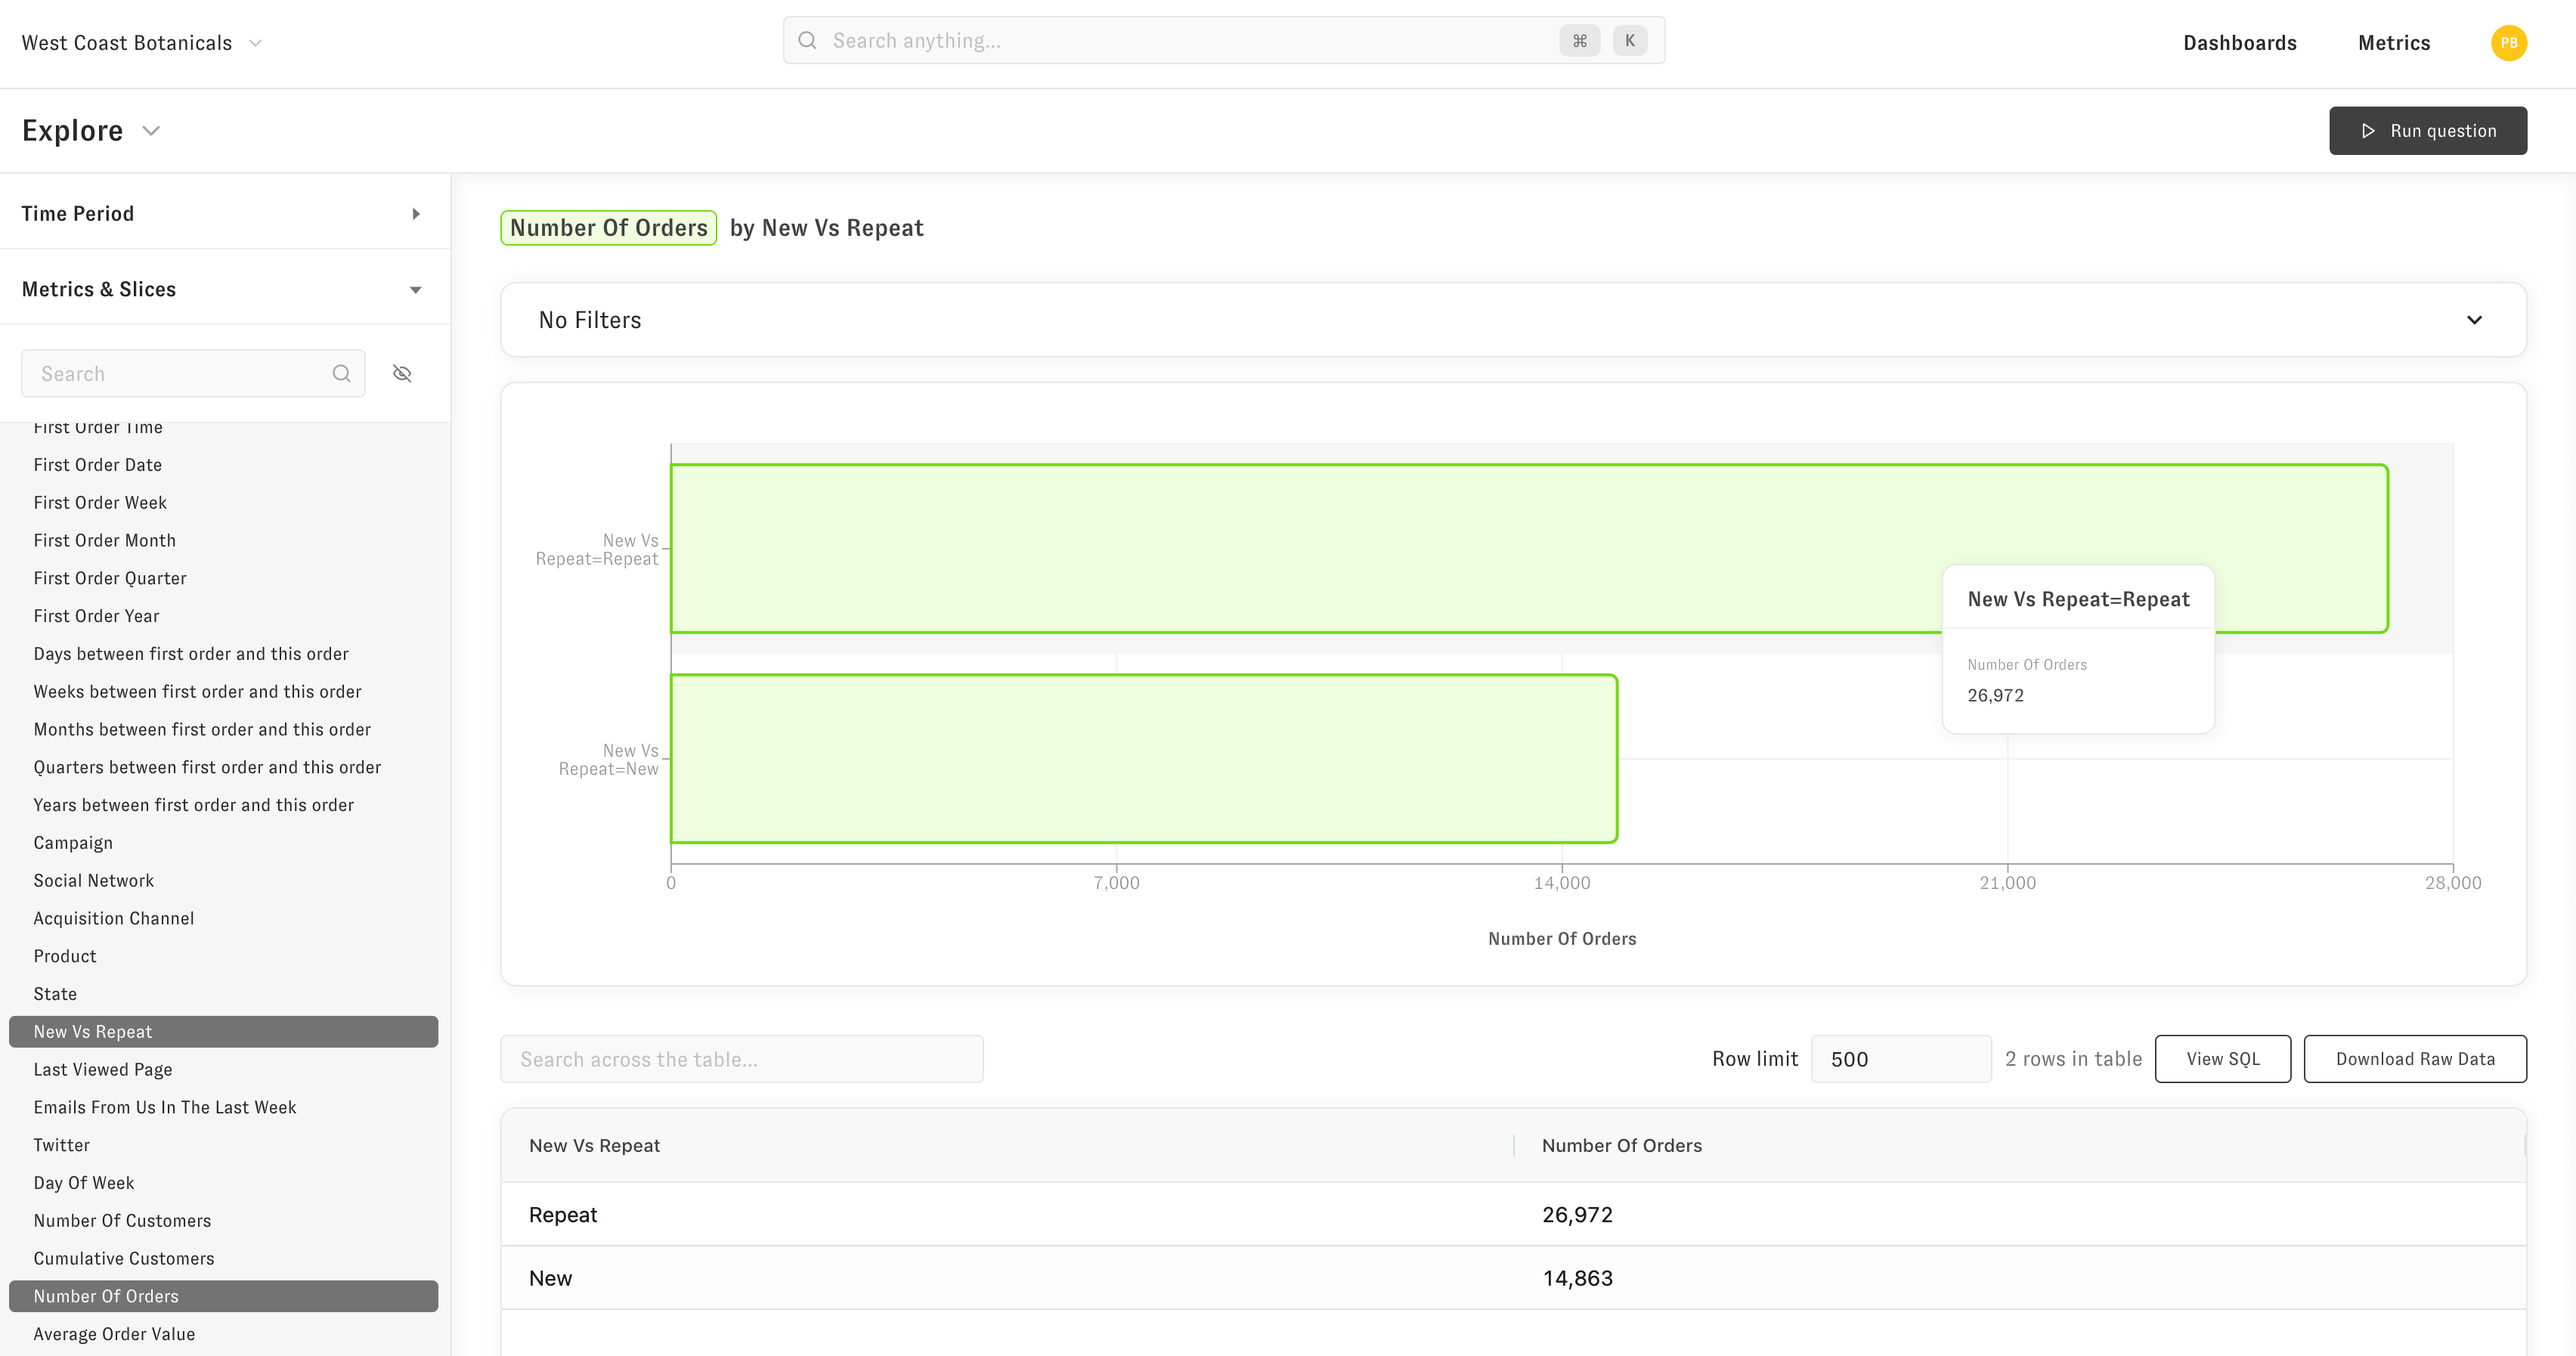
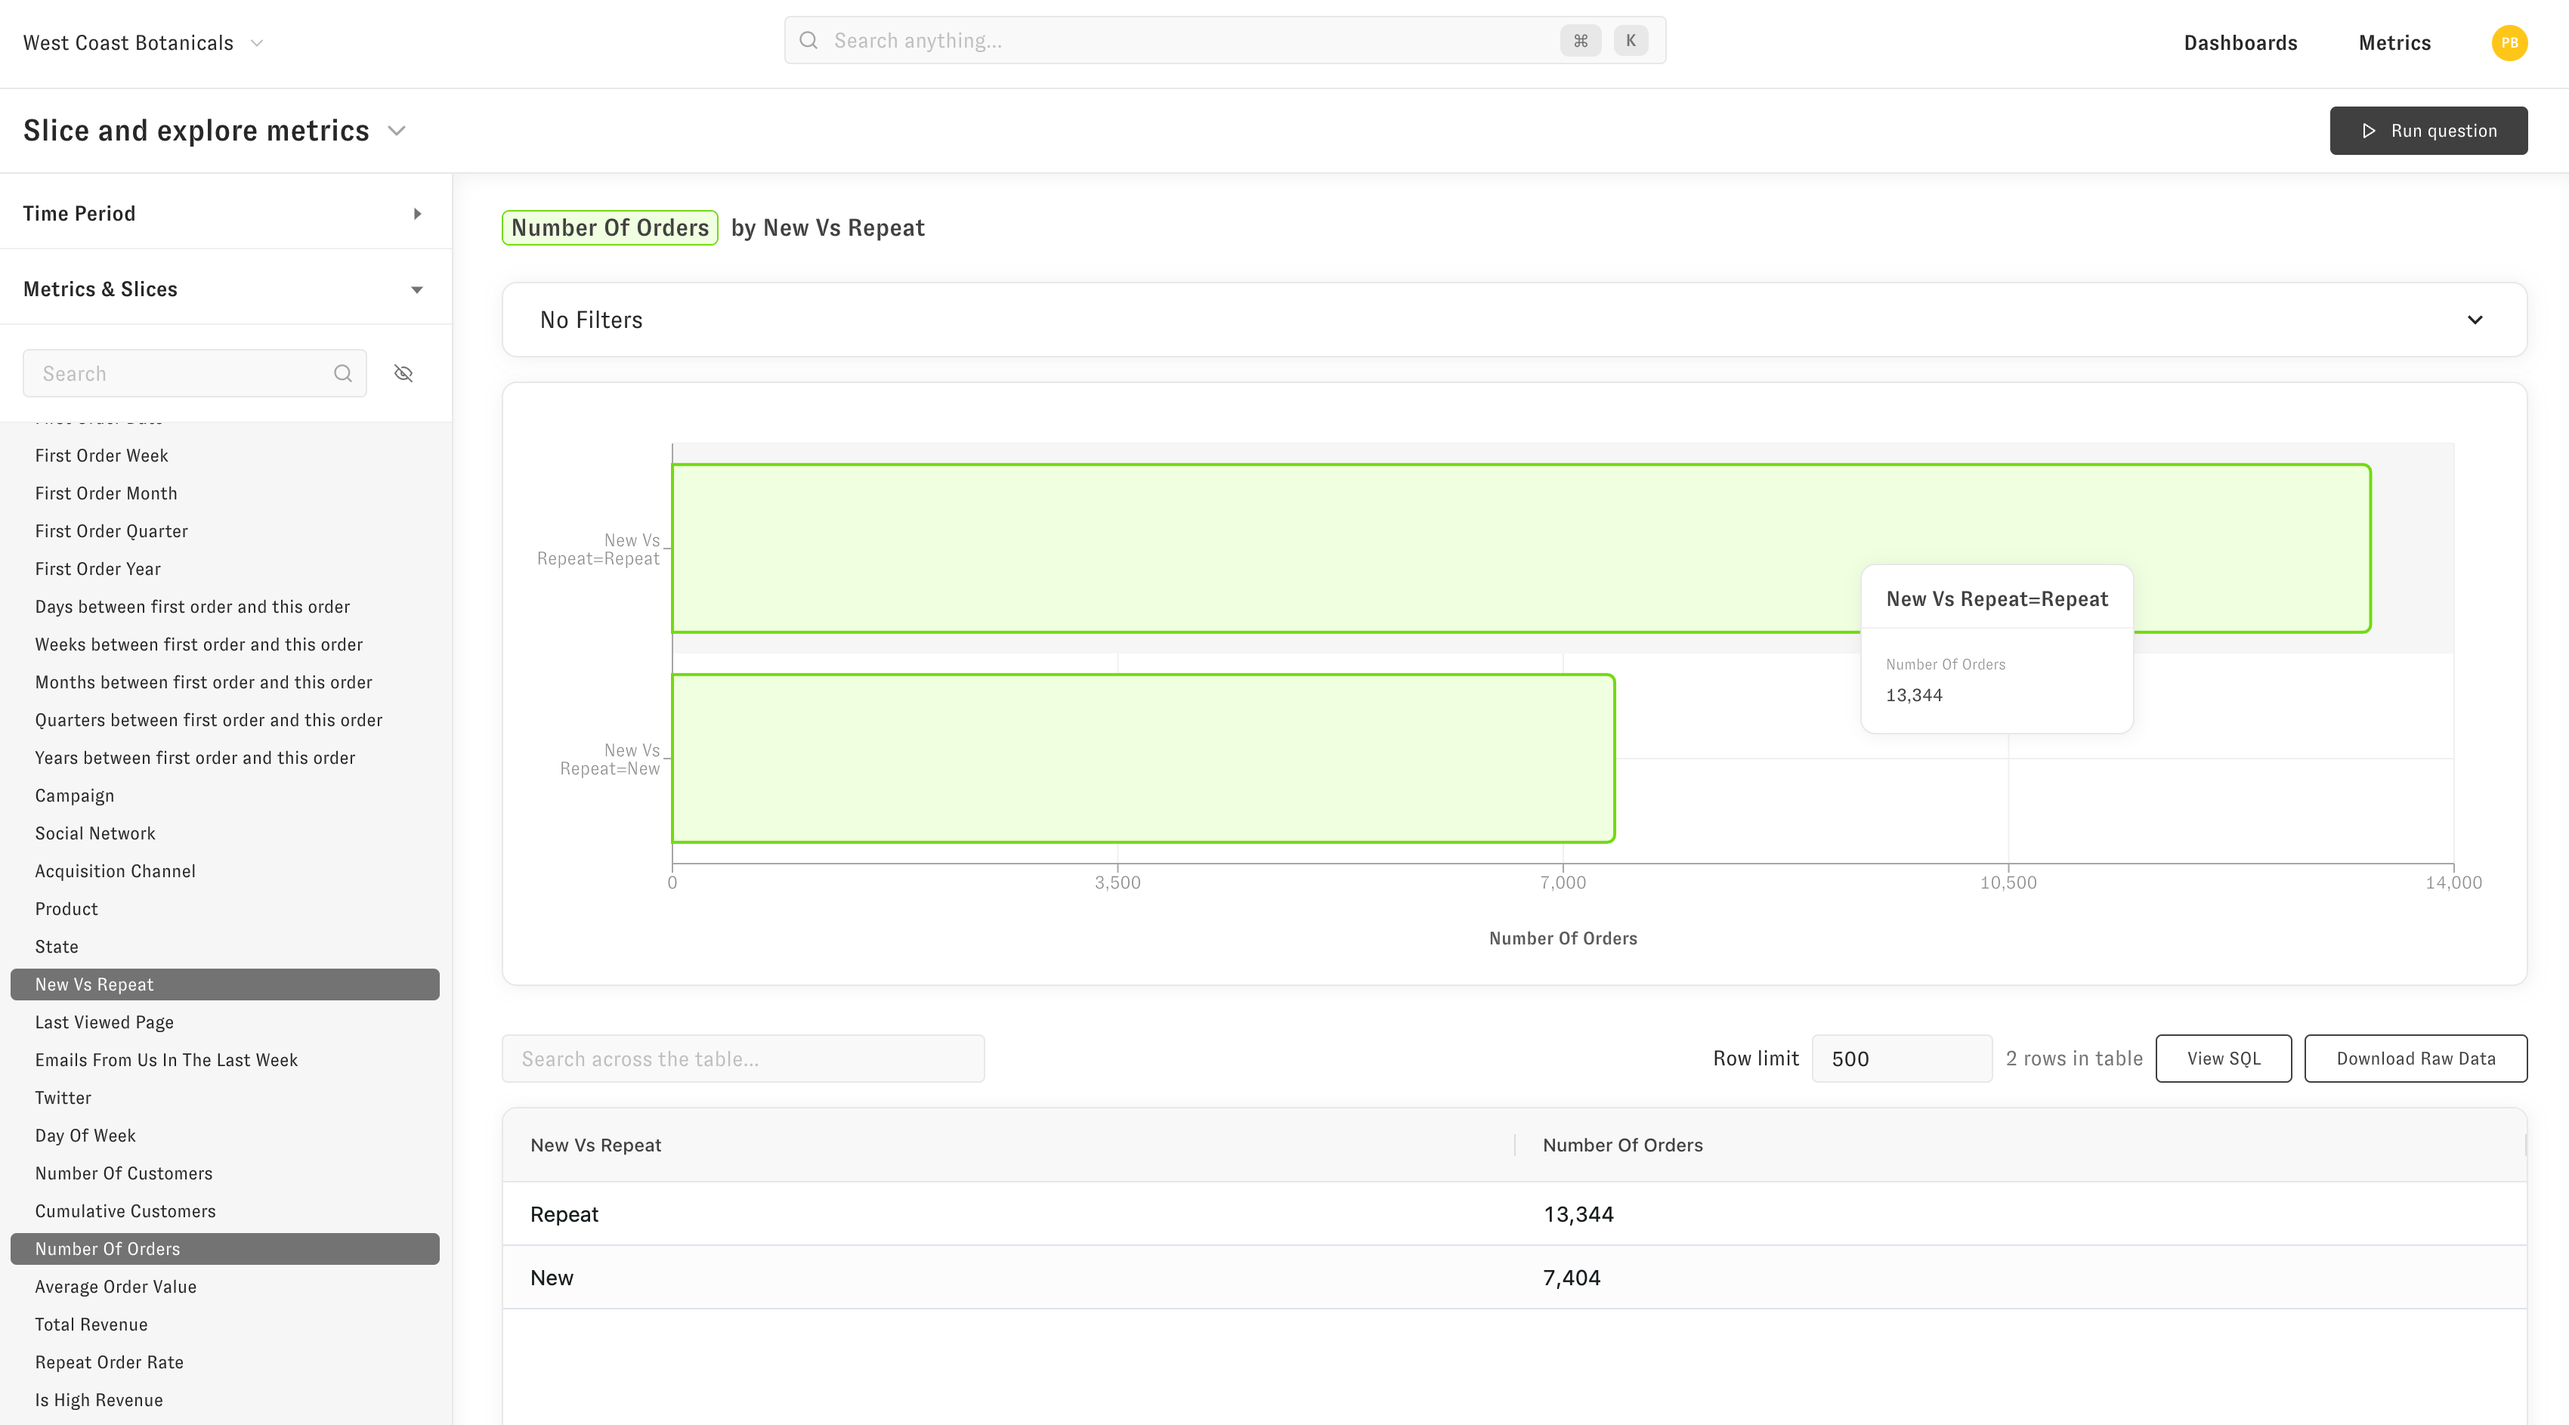
updates for new explore question label

diff --git a/docs/3_zenlytic_ui/2_exploring.md b/docs/3_zenlytic_ui/2_exploring.md
@@ -2,13 +2,13 @@
 sidebar_position: 2
 ---
 
-# Exploring your data 
+# Slice and Explore 
 
-The explore question lets you answer the "What" question about your data. You can get to this question by [searching your data](./1_using_zenlytic.md#search), [clicking on a metric](./1_using_zenlytic.md#metrics), or [following up from a dashboard](./1_using_zenlytic.md#dashboards).  Once in the explore interface, you can do several operations on your data.
+The Slice and Explore Metrics question lets you answer the "What" questions about your data. You can get to this question by [searching your data](./1_using_zenlytic.md#search), [clicking on a metric](./1_using_zenlytic.md#metrics), or [following up from a dashboard](./1_using_zenlytic.md#dashboards).  Once in the Slice and Explore interface, you can do several operations on your data.
 
 ### Slicing 
 
-You can add or remove metrics and slices from your explore whenever you'd like. You use the Metrics and Slices menu on the left hand side to add these additional metrics or slices. 
+You can add or remove metrics and slices from your question whenever you'd like. You use the Metrics and Slices menu on the left hand side to add these additional metrics or slices. 
 
 ![explore-slicing](../assets/explore-slicing.png)
 
